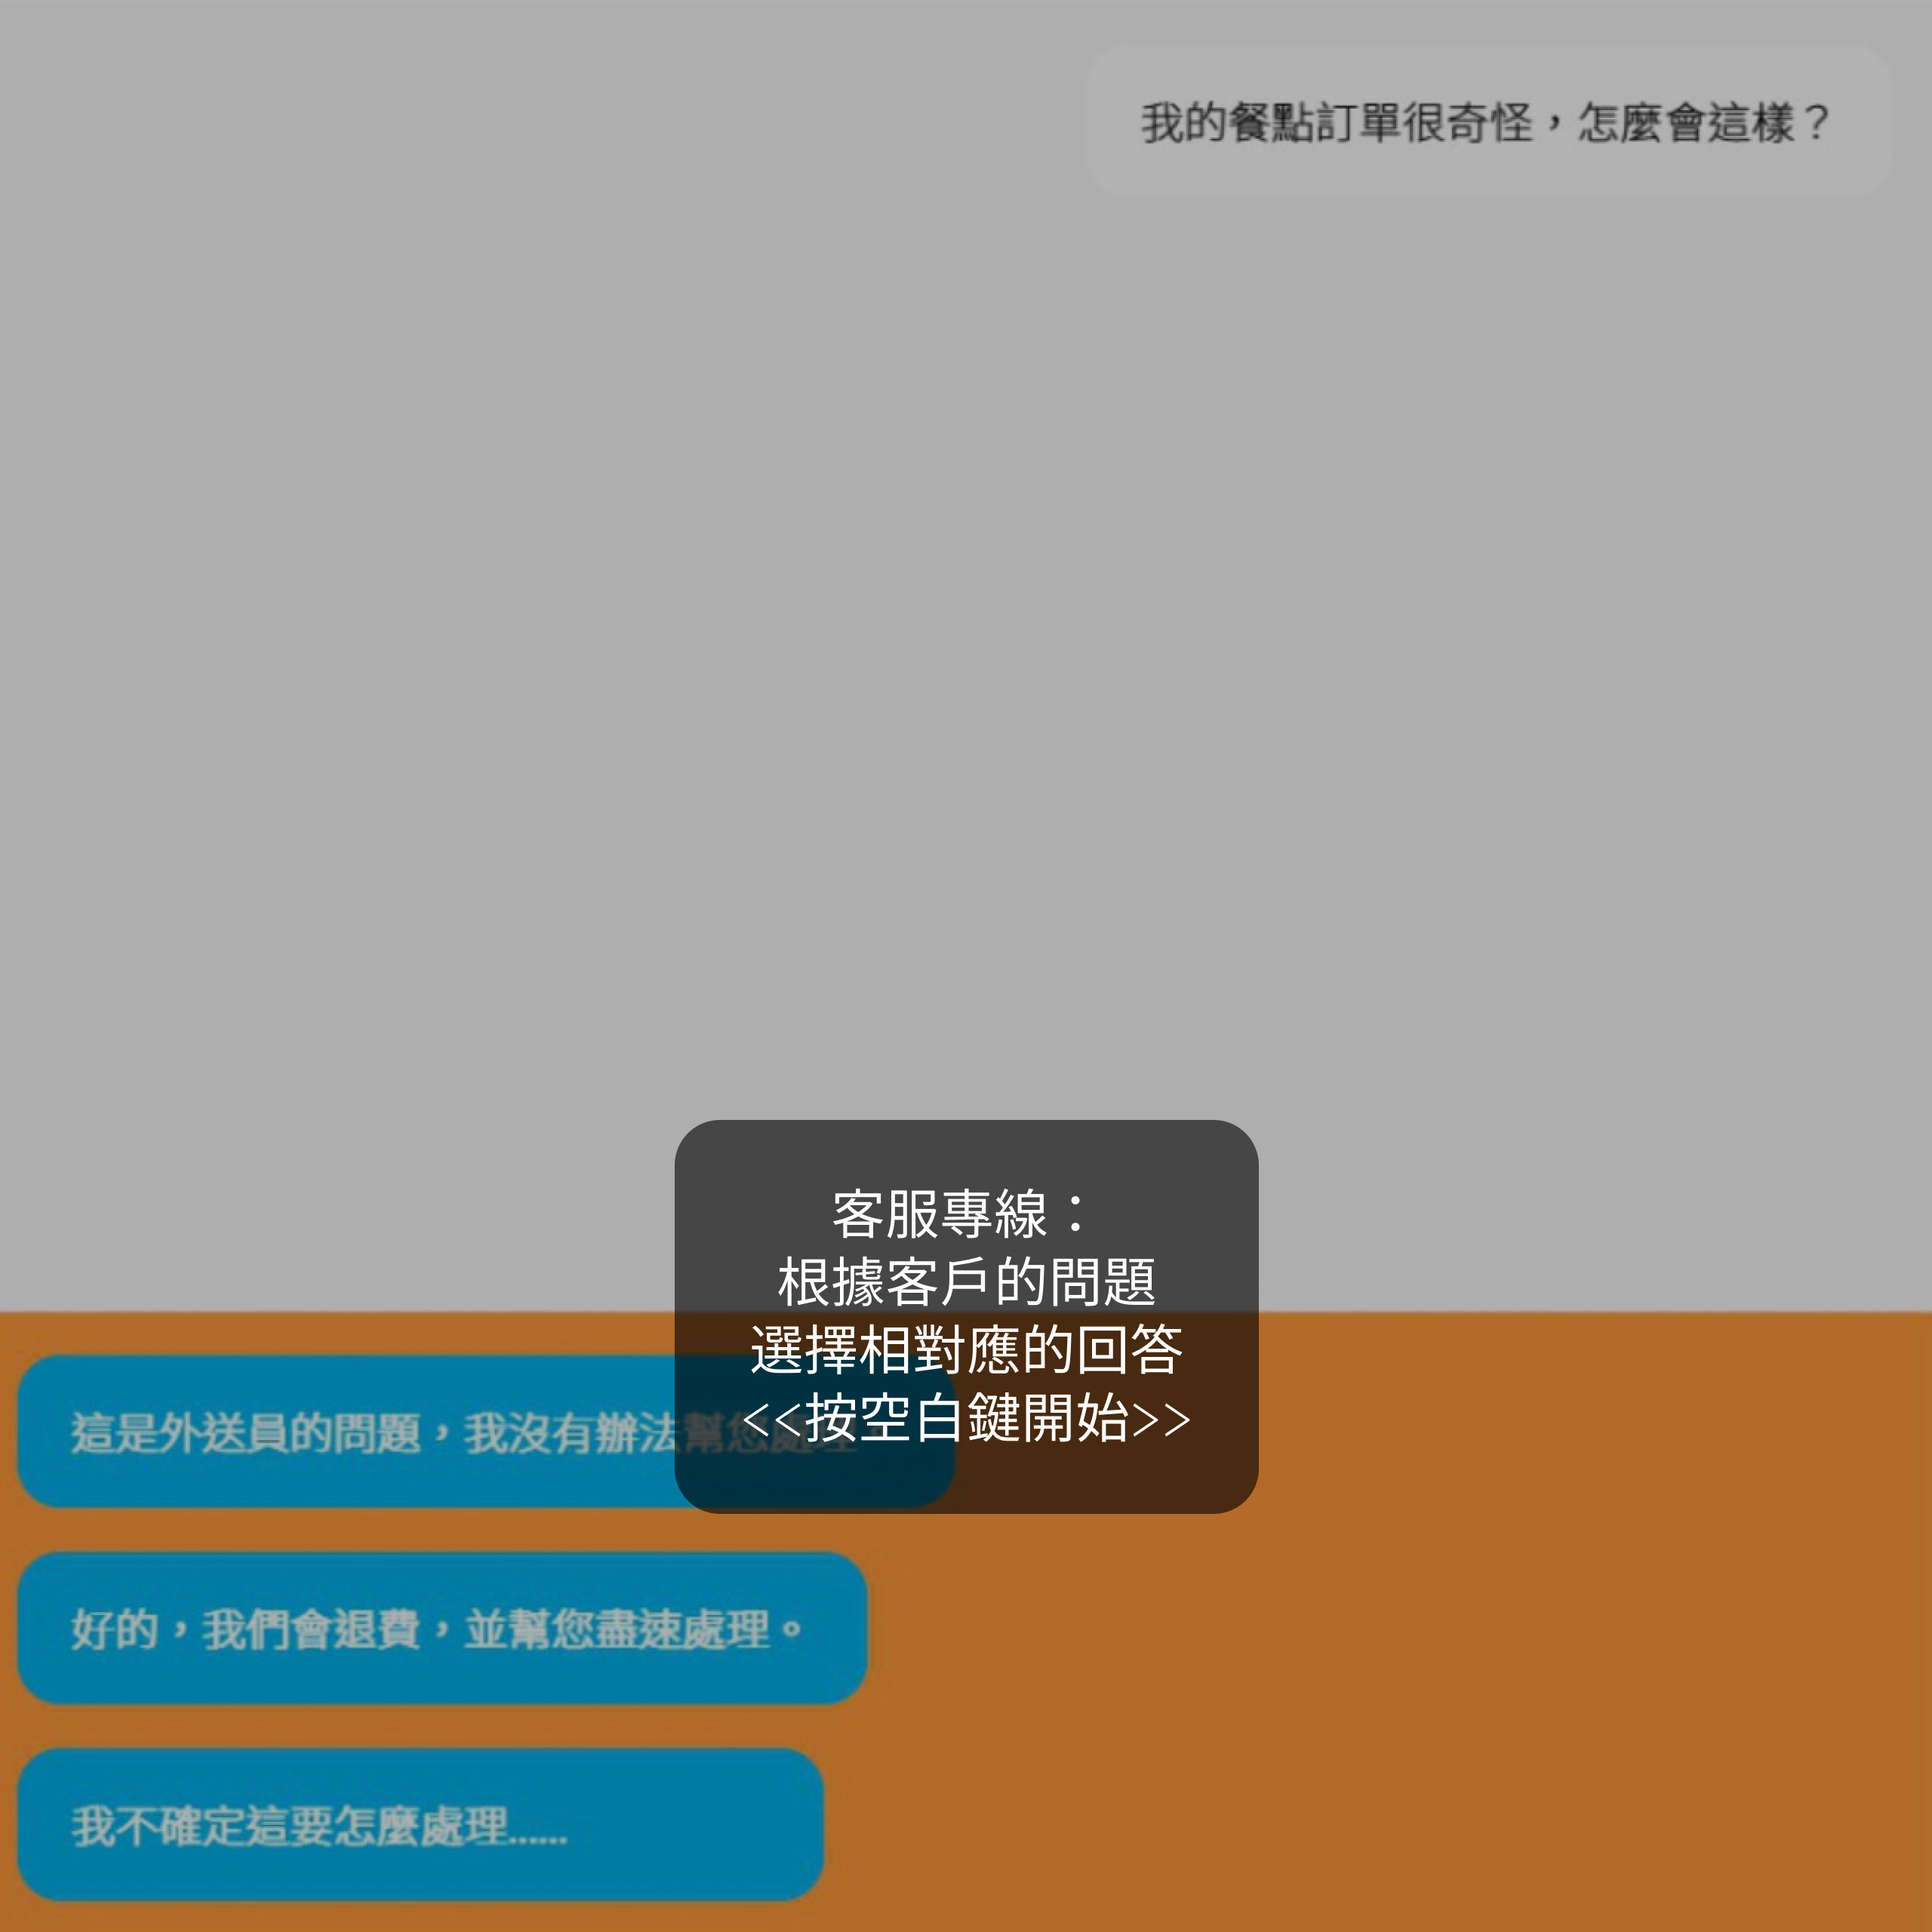
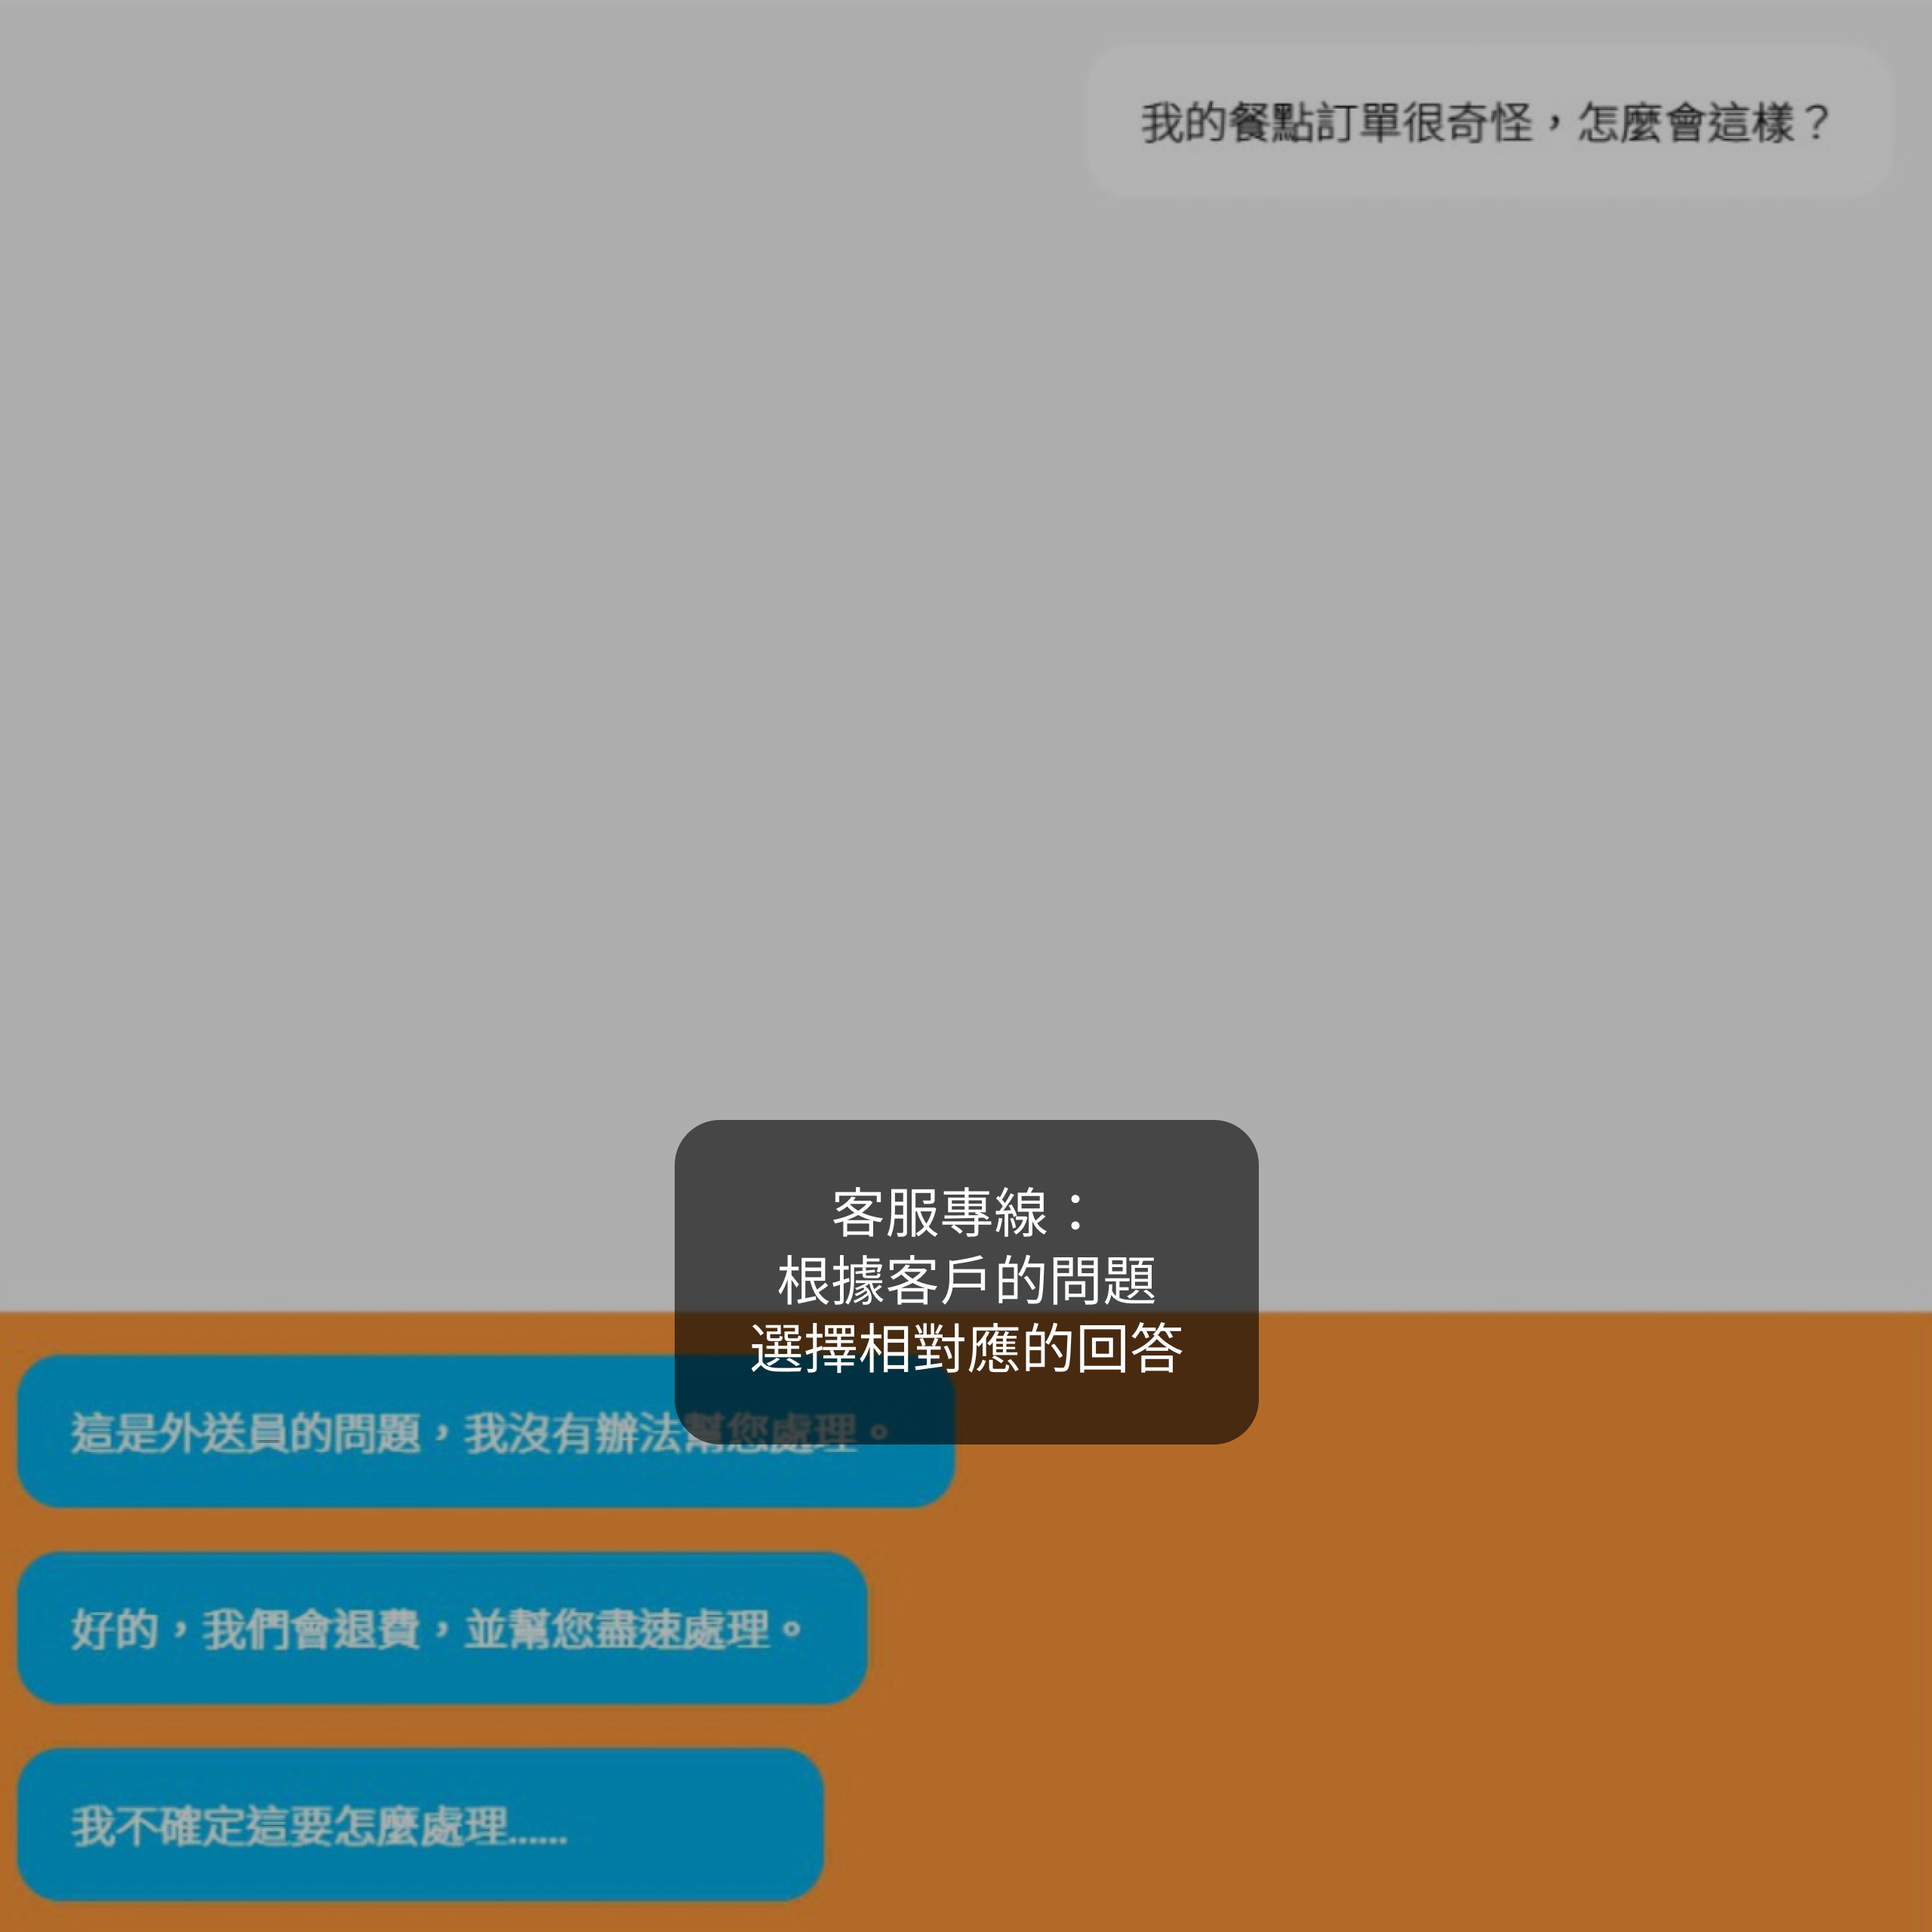
add level2 guide

Changed region(s): [[0.3438, 0.625, 0.6562, 0.7812]]

diff --git a/public/javascripts/Level2.js b/public/javascripts/Level2.js
@@ -1,3 +1,4 @@
+let START = false; //遊戲開始
 var lastAddTime = 0;  //上次生成物件的時間（第一道）
 var lastAddTime2 = 0; //上次生成物件的時間（第二道)
 var lastAddTime3 = 0; //上次生成物件的時間（第三道)
@@ -12,6 +13,12 @@ var backimg;          //背景圖片
 var backimg_loc = 0;  //背景圖片位置
 let GameOverImg = "./assets/Level2/Second_Round-End-1.png", SuccessImg = "./assets/Level2/Round-Success-2-1.png";
 let RestartImg = "./assets/Level2/Restart.png", BackToMainImg = "./assets/Level2/回到主畫面.png", NextLevelImg = "./assets/Level2/Next.png";
+
+function start(){
+    let rmGuide = document.getElementById("guide_button");
+    rmGuide.remove();
+    START = true;
+}
 
 // 外送員class
 class Motorcycle{
@@ -146,34 +153,40 @@ function draw() {
     backGroundPicture();
     motorcycle.show()
     // random產生障礙物 1st
-    var interval = random(4000,6000);
-    var nowtime = 60 - parseInt((millis() - gametime)/1000);
+    var interval = random(4000, 6000);
+    if (!START) {
+        var nowtime = 60;
+        gametime = millis();
+    }
+    else{
+        var nowtime = 60 - parseInt((millis() - gametime) / 1000);
+    }
     console.log(nowtime);
     textAlign(LEFT);
     textSize(60);
-    text("Time: "+nowtime,950,0,width/2, height/2);
+    text("Time: " + nowtime, 950, 0, width / 2, height / 2);
 
-    if (millis()-lastAddTime > interval) {
+    if (millis() - lastAddTime > interval) {
         traffics.push(new Traffic());
         lastAddTime = millis();
     }
     // random產生障礙物 2nd
-    var interval2 = random(6000,8000);
-    if (millis()-lastAddTime2 > interval2) {
+    var interval2 = random(6000, 8000);
+    if (millis() - lastAddTime2 > interval2) {
         traffics2.push(new Traffic2());
         lastAddTime2 = millis();
     }
     // random產生障礙物 3rd
-    var interval3 = random(5000,9000);
-    if (millis()-lastAddTime3 > interval3) {
+    var interval3 = random(5000, 9000);
+    if (millis() - lastAddTime3 > interval3) {
         traffics3.push(new Traffic3());
         lastAddTime3 = millis();
     }
     //1st
-    for(let c of traffics){
-        if (nowtime <= 0){
+    for (let c of traffics) {
+        if (nowtime <= 0) {
             delete c.x;
-            for(var i=0; i<5; i++){
+            for (var i = 0; i < 5; i++) {
                 lifes[i].remove();
             }
             showResult();
@@ -181,38 +194,37 @@ function draw() {
         }
         c.move();
         c.show();
-        if(motorcycle.hits(c)){ //碰撞偵測
-            if(c.flag !=3 ){
+        if (motorcycle.hits(c)) { //碰撞偵測
+            if (c.flag != 3) {
                 delete c.x;
                 console.log(motorcycle.life)
                 heart_x -= 60;
                 motorcycle.life -= 1;
                 lifes[motorcycle.life].remove(); // 移除一顆心
-            }
-            else if(c.flag == 3){
+            } else if (c.flag == 3) {
                 delete c.x;
                 console.log(motorcycle.life)
-                if(motorcycle.life<5){
-                    lifes[motorcycle.life] = createSprite(heart_x,30) // 加上一顆心
+                if (motorcycle.life < 5) {
+                    lifes[motorcycle.life] = createSprite(heart_x, 30) // 加上一顆心
                     lifes[motorcycle.life].addImage(loadImage('./assets/heart.png'));
                     motorcycle.life += 1;
                     heart_x += 60;
                 }
             }
         }
-        if(motorcycle.life == 0){
+        if (motorcycle.life == 0) {
             showResult();
             noLoop();
         }
-        if(c.x<0){
+        if (c.x < 0) {
             delete c.x;
         }
     }
     //2nd
-    for(let c of traffics2){
-        if (nowtime <= 0){
+    for (let c of traffics2) {
+        if (nowtime <= 0) {
             delete c.x;
-            for(var i=0; i<5; i++){
+            for (var i = 0; i < 5; i++) {
                 lifes[i].remove();
             }
             showResult();
@@ -220,19 +232,18 @@ function draw() {
         }
         c.move();
         c.show();
-        if(motorcycle.hits(c)){
-            if(c.flag !=3 ){
+        if (motorcycle.hits(c)) {
+            if (c.flag != 3) {
                 delete c.x;
                 console.log(motorcycle.life)
                 heart_x -= 60;
                 motorcycle.life -= 1;
                 lifes[motorcycle.life].remove(); // 移除一顆心
-            }
-            else if(c.flag == 3){
+            } else if (c.flag == 3) {
                 delete c.x;
                 console.log(motorcycle.life)
-                if(motorcycle.life<5){
-                    lifes[motorcycle.life] = createSprite(heart_x,30) // 加上一顆心
+                if (motorcycle.life < 5) {
+                    lifes[motorcycle.life] = createSprite(heart_x, 30) // 加上一顆心
                     lifes[motorcycle.life].addImage(loadImage('./assets/heart.png'));
                     motorcycle.life += 1;
                     heart_x += 60;
@@ -240,19 +251,19 @@ function draw() {
 
             }
         }
-        if(motorcycle.life == 0){
+        if (motorcycle.life == 0) {
             showResult();
             noLoop();
         }
-        if(c.x<0){
+        if (c.x < 0) {
             delete c.x;
         }
     }
     //3rd
-    for(let c of traffics3){
-        if (nowtime <= 0){
+    for (let c of traffics3) {
+        if (nowtime <= 0) {
             delete c.x;
-            for(var i=0; i<5; i++){
+            for (var i = 0; i < 5; i++) {
                 lifes[i].remove();
             }
             showResult();
@@ -260,49 +271,46 @@ function draw() {
         }
         c.move();
         c.show();
-        if(motorcycle.hits(c)){
-            if(c.flag !=3 ){
+        if (motorcycle.hits(c)) {
+            if (c.flag != 3) {
                 delete c.x;
                 console.log(motorcycle.life)
                 heart_x -= 60;
                 motorcycle.life -= 1;
                 lifes[motorcycle.life].remove(); // 移除一顆心
-            }
-            else if(c.flag == 3){
+            } else if (c.flag == 3) {
                 delete c.x;
                 console.log(motorcycle.life)
-                if(motorcycle.life<5){
-                    lifes[motorcycle.life] = createSprite(heart_x,30) // 加上一顆心
+                if (motorcycle.life < 5) {
+                    lifes[motorcycle.life] = createSprite(heart_x, 30) // 加上一顆心
                     lifes[motorcycle.life].addImage(loadImage('./assets/heart.png'));
                     motorcycle.life += 1;
                     heart_x += 60;
                 }
             }
         }
-        if(motorcycle.life == 0){
+        if (motorcycle.life == 0) {
             showResult();
             noLoop();
         }
-        if(c.x<0){
+        if (c.x < 0) {
             delete c.x;
         }
     }
 
     //操控外送員
-    if (keyWentDown(DOWN_ARROW)){
+    if (keyWentDown(DOWN_ARROW)) {
         motorcycle.y += 180;
-    }
-    else if (keyWentDown(UP_ARROW)){
+    } else if (keyWentDown(UP_ARROW)) {
         motorcycle.y -= 180;
-    }
-    else{
+    } else {
         motorcycle.y += 0;
     }
     //移動位置限制
-    if (motorcycle.y > 530){
+    if (motorcycle.y > 530) {
         motorcycle.y = 530;
     }
-    if (motorcycle.y < 180){
+    if (motorcycle.y < 180) {
         motorcycle.y = 180;
     }
 

diff --git a/public/stylesheets/style.css b/public/stylesheets/style.css
@@ -68,6 +68,19 @@ button.level3 {
   margin: -450px 0 0 -450px;
 }
 
+button.level2 {
+  background-image: url(../assets/Guide/level2.png);
+  background-size: cover;
+  border: 0px;
+  width: 1200px;
+  height: 670px;
+  z-index: 1;
+  position: absolute;
+  top: 50%;
+  left: 50%;
+  margin: -335px 0 0 -600px;
+}
+
 #container {
   width: 1200px;
   height: 670px;

diff --git a/public/stylesheets/style.scss b/public/stylesheets/style.scss
@@ -72,6 +72,20 @@ button.level3 {
 
 }
 
+button.level2 {
+  background-image: url(../assets/Guide/level2.png);
+  background-size: cover;
+  border: 0px;
+  width: 1200px;
+  height: 670px;
+  z-index: 1;
+
+  position: absolute;
+  top: 50%;
+  left: 50%;
+  margin: -335px 0 0 -600px;
+}
+
   //Level1,2
   #container{
     width: 1200px;

diff --git a/public/Level2.html b/public/Level2.html
@@ -14,7 +14,10 @@
     <link href="https://fonts.googleapis.com/css2?family=Noto+Sans+TC:wght@100&display=swap" rel="stylesheet">
 </head>
 <body>
+<button type="button" class="level2" id="guide_button" onclick="start()"></button>
+
 <div id="container">
+
 </div>
 </body>
 </html>
